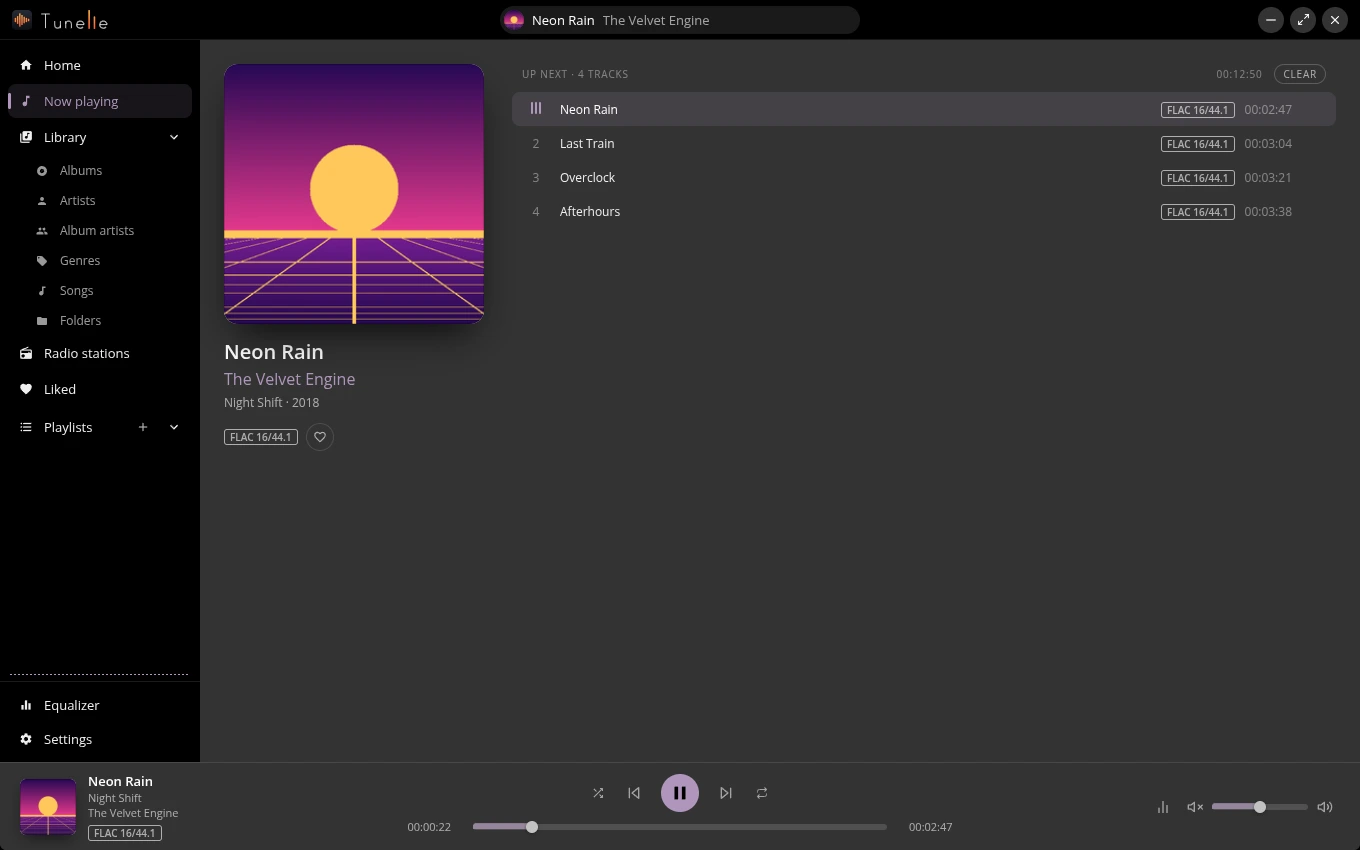
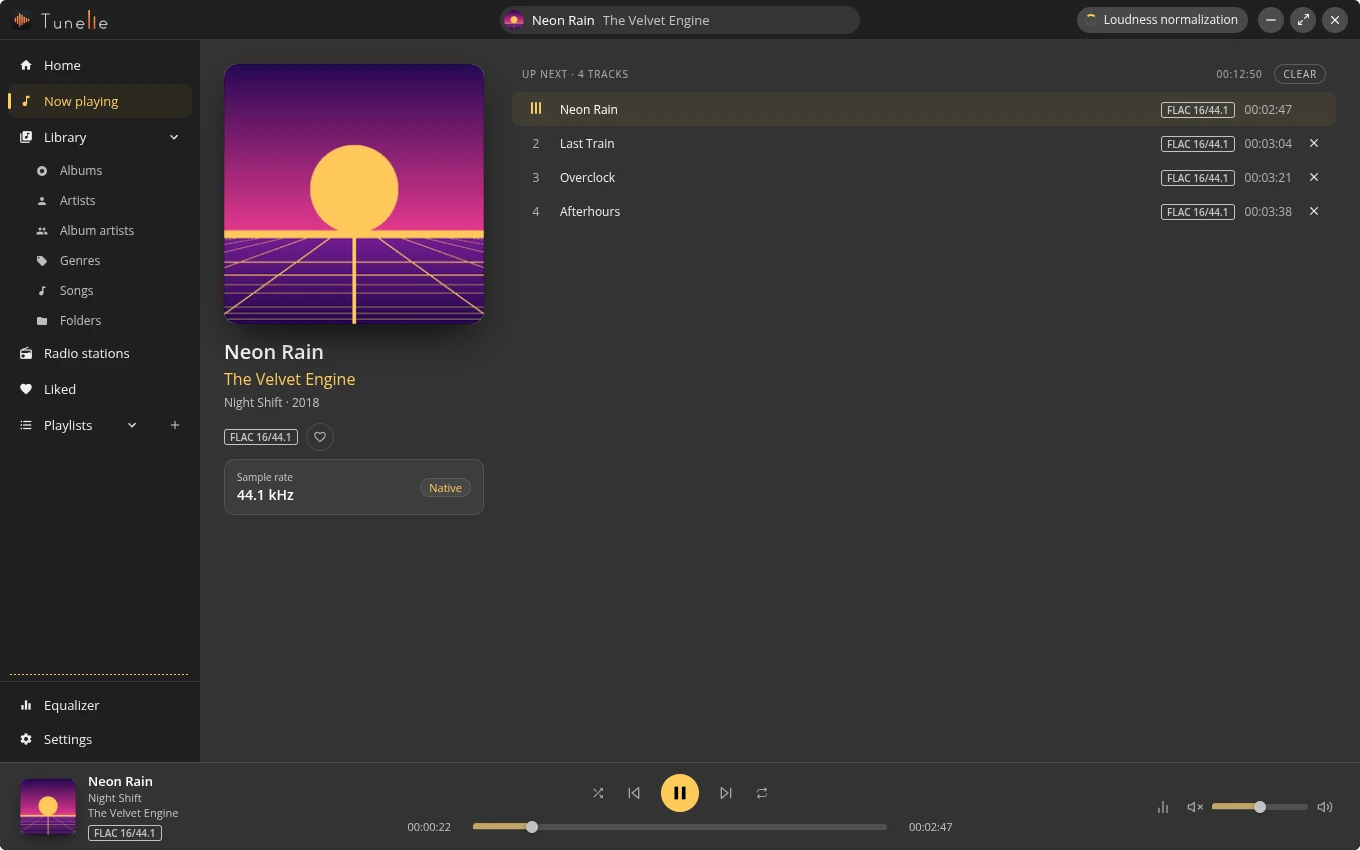
Give the window a solid background while the translucent panels are off (#397)
* Make the window opaque when the translucent panels are off

* Give the window a solid background while the translucent panels are off

* Take the screenshots in the dark theme (SCREENSHOTS_THEME=light for the light one) with the window blur off

* Check the accent text against the surface of the active navigation item so the light theme keeps 4.5:1

---------

diff --git a/e2e/screenshots/screenshot-steps.ts b/e2e/screenshots/screenshot-steps.ts
@@ -1,6 +1,7 @@
 import { test as base, expect, type Page } from '@playwright/test';
 import { mkdirSync, mkdtempSync, rmSync, writeFileSync } from 'fs';
 import { tmpdir } from 'os';
+import { z } from 'zod';
 import { join, resolve } from 'path';
 import { albums, startDirectory, writeLibrary } from '../../scripts/screenshots/screenshot-fixtures';
 import { installActiveAudio } from '../support/active-audio';
@@ -9,9 +10,12 @@ import { addFolder, launchApp, navigate, ui } from '../support/app';
 
 // what the screenshots share: the app on a library of generated files with an album playing, and the steps and the picture taken from it
 // (scenes.spec.ts for the pictures of the website, small-windows.spec.ts for the layout at small sizes)
-// SCREENSHOTS_OUT=folder writes the pictures there instead of the default folder of the file that takes them
+// SCREENSHOTS_OUT=folder writes the pictures there instead of the default folder of the file that takes them, SCREENSHOTS_THEME=light starts the app in the light theme
 
 const output = resolve(__dirname, '../..', process.env.SCREENSHOTS_OUT ?? 'site/screenshots');
+
+// the window blur is off in a clean profile, so the window has the solid background of the theme and nothing of the desktop shows
+const theme = z.enum(['dark', 'light']).catch('dark').parse(process.env.SCREENSHOTS_THEME);
 
 export interface Album {
   title: string;
@@ -30,10 +34,8 @@ export const screenshotTest = base.extend<object, { session: { page: Page; resiz
       const directory = await startDirectory();
       const { app, page } = await launchApp({ home, radioDirectory: directory.origin, initScripts: [installActiveAudio, installAudioProbe] });
       // the app stops what moves on its own for this setting (the wave of a station is drawn once, the covers change at once), so a picture does not depend on the moment it is taken
-      // and the colour scheme is the one of the system, not the light one that Playwright sets unless it is told not to
-      await page.emulateMedia({ reducedMotion: 'reduce', colorScheme: null });
-      // the window is transparent and its panels are translucent: what is behind it is black, as on a desktop of its own
-      await page.addStyleTag({ content: 'html { background: #000 !important; }' });
+      // and the app starts in the colour scheme of SCREENSHOTS_THEME (dark unless it says light), as the mode of a clean profile follows the system
+      await page.emulateMedia({ reducedMotion: 'reduce', colorScheme: theme });
       await addFolder(
         page,
         music,

diff --git a/client/theme.ts b/client/theme.ts
@@ -14,6 +14,9 @@ export const defaultTheme: ThemeSettings = { mode: 'system', accent: undefined }
 /** The panel colours of client/components/layout/theme-provider/ThemeProvider.scss, which text in the accent has to stand out from */
 export const panelSurfaces: Record<ResolvedTheme, string> = { dark: '#333333', light: '#fafafa' };
 
+/** The darkest surface the accent text sits on: the window background under the accent tint of the active navigation item (the light one is `--app-background` with 6% of the accent), which is darker than a panel */
+export const accentSurfaces: Record<ResolvedTheme, string> = { dark: '#333333', light: '#e6e6e6' };
+
 /** WCAG contrast for normal text */
 const minTextContrast = 4.5;
 
@@ -63,13 +66,13 @@ export const contrastRatio = (first: string, second: string) => {
 /** Black or white, whichever reads better on the colour (for a label on an accent background) */
 export const pickContrastColor = (background: string) => (contrastRatio(background, '#ffffff') >= contrastRatio(background, '#000000') ? '#ffffff' : '#000000');
 
-/** The accent, moved toward white on dark panels and toward black on light ones just far enough to be readable as text there */
+/** The accent, moved toward white on dark surfaces and toward black on light ones just far enough to be readable as text there */
 export const readableAccent = (accent: string, theme: ResolvedTheme) => {
   const toward = theme === 'dark' ? '#ffffff' : '#000000';
 
   return (
     Array.from({ length: 21 }, (_, step) => mix(accent, toward, step / 20)).find(
-      (candidate) => contrastRatio(candidate, panelSurfaces[theme]) >= minTextContrast
+      (candidate) => contrastRatio(candidate, accentSurfaces[theme]) >= minTextContrast
     ) ?? toward
   );
 };

diff --git a/client/theme.test.ts b/client/theme.test.ts
@@ -6,7 +6,7 @@ import {
   contrastRatio,
   defaultAccent,
   defaultTheme,
-  panelSurfaces,
+  accentSurfaces,
   parseAccent,
   pickContrastColor,
   readableAccent,
@@ -96,19 +96,19 @@ describe('readableAccent', () => {
     const readable = readableAccent(defaultAccent, 'light');
 
     expect(readable).not.toBe(defaultAccent);
-    expect(contrastRatio(readable, panelSurfaces.light)).toBeGreaterThanOrEqual(4.5);
+    expect(contrastRatio(readable, accentSurfaces.light)).toBeGreaterThanOrEqual(4.5);
   });
 
   it.each(accentPresets.flatMap((preset) => (['dark', 'light'] as const).map((theme) => [preset, theme] as const)))(
     'reads %s on %s panels',
     (preset, theme) => {
-      expect(contrastRatio(readableAccent(preset, theme), panelSurfaces[theme])).toBeGreaterThanOrEqual(4.5);
+      expect(contrastRatio(readableAccent(preset, theme), accentSurfaces[theme])).toBeGreaterThanOrEqual(4.5);
     }
   );
 
   it.each(['#000000', '#ffffff', '#808080', '#ffff00', '#0000ff', '#010101', '#fefefe'])('reads the extreme %s in both modes', (accent) => {
-    expect(contrastRatio(readableAccent(accent, 'dark'), panelSurfaces.dark)).toBeGreaterThanOrEqual(4.5);
-    expect(contrastRatio(readableAccent(accent, 'light'), panelSurfaces.light)).toBeGreaterThanOrEqual(4.5);
+    expect(contrastRatio(readableAccent(accent, 'dark'), accentSurfaces.dark)).toBeGreaterThanOrEqual(4.5);
+    expect(contrastRatio(readableAccent(accent, 'light'), accentSurfaces.light)).toBeGreaterThanOrEqual(4.5);
   });
 });
 

diff --git a/e2e/screenshots/scenes.spec.ts b/e2e/screenshots/scenes.spec.ts
@@ -6,7 +6,7 @@ import { capture, closeDialog, currentTime, holdAt, playAlbum, shown, screenshot
 // the pictures of site/screenshots (npm run screenshots [-- -g scene]), one test each, in the order of the list: a scene starts from an album playing, and from what the ones before left
 // the same pictures every time: a library of generated tagged files and a made up station directory (scripts/screenshots/screenshot-fixtures.ts), a clean profile, English (SCREENSHOTS_LANG=hu for another language of shared/locales/), reduced motion, 1360 x 850,
 // and the clock of the player held where the scene wants it; Linux draws headless, Windows and macOS need their desktop
-// SCREENSHOTS_OUT=folder writes the pictures there instead of site/screenshots, SCREENSHOTS_LANG=hu takes them in Hungarian (the texts of the steps are English, ui() finds them in the language of the run)
+// SCREENSHOTS_OUT=folder writes the pictures there instead of site/screenshots, SCREENSHOTS_THEME=light starts the app light instead of dark, SCREENSHOTS_LANG=hu takes them in Hungarian (the texts of the steps are English, ui() finds them in the language of the run)
 
 test.describe.configure({ mode: 'serial' });
 

diff --git a/client/components/layout/theme-provider/ThemeProvider.scss b/client/components/layout/theme-provider/ThemeProvider.scss
@@ -11,10 +11,9 @@
   --app-background: #1f1f1f;
   --panel-solid: #333333;
   --panel-glass: rgba(51, 51, 51, 0.4);
-  // what lies over a transparent window: the desktop shows through, so it is tinted more where nothing blurs it
+  // what lies over a transparent window where the desktop blurs it
   --window-tint: rgba(0, 0, 0, 0.3);
   --window-tint-dense: rgba(0, 0, 0, 0.8);
-  --window-tint-densest: rgba(0, 0, 0, 0.88);
   --bar-background: rgba(0, 0, 0, 0.3);
 
   --text: #ffffff;
@@ -43,7 +42,7 @@
 @mixin light {
   color-scheme: light;
 
-  --accent: #a65757;
+  --accent: #995050;
   --accent-contrast: #ffffff;
 
   --app-background: #f2f2f2;
@@ -51,7 +50,6 @@
   --panel-glass: rgba(255, 255, 255, 0.55);
   --window-tint: rgba(255, 255, 255, 0.3);
   --window-tint-dense: rgba(255, 255, 255, 0.6);
-  --window-tint-densest: rgba(255, 255, 255, 0.75);
   --bar-background: rgba(255, 255, 255, 0.5);
 
   --text: #1f1f1f;

diff --git a/client/components/layout/player-home/PlayerHome.scss b/client/components/layout/player-home/PlayerHome.scss
@@ -83,13 +83,10 @@ html, body {
     background: var(--window-tint);
   }
 
-  // nothing blurs behind the window, so use a denser tint to keep text readable
-  &.opaque.noBlur {
-    background: var(--window-tint-dense);
-  }
-
+  // nothing blurs behind the window, so it has a background of its own instead of showing the desktop (the window stays transparent, so the setting applies at once)
+  &.opaque.noBlur,
   &.maximized.opaque.noBlur {
-    background: var(--window-tint-densest);
+    background: var(--app-background);
   }
 
   &.loaded {

diff --git a/docs/development/accessibility.md b/docs/development/accessibility.md
@@ -12,7 +12,7 @@ Two automated checks show the accessibility problems of the renderer (tracking i
 
 - `e2e/accessibility/accessibility.spec.ts` opens the library, album details, now playing, radio, settings and the equalizer in light and dark mode (`colorScheme` and reduced motion emulated) and runs axe on the page. Run it with `npm run test:a11y` after `npm run build`. It is its own Playwright project (`a11y`), left out of `npm run test:e2e`, and CI runs it in the `accessibility` job of `test.yml` on Ubuntu only, beside the other jobs, so the end to end tests of every system stay as short as they are.
 - Only serious and critical violations are reported. Each is a line `<rule>: <help> (<n> elements)` in the failure of the test, which fails on any. To see the elements, run axe with the rule in a temporary spec and print `node.target` and `node.any[0].message`.
-- Symptom: axe `color-contrast`. Causes found: a `text-shadow` (axe counts the shadow colour as the background, so the navigation labels have none), `opacity` on text (use `--text-muted` or `--text-faint`), an overlay on the transparent title bar (the queue pill sits on `--panel-solid`), and the dense tint of a window that nothing blurs (the dark one is 0.8, as the desktop behind a transparent window is unknown and axe sees white). The muted and faint text and the accent tint are set in `ThemeProvider.scss` so that the accent on its tint and the faint text on a panel keep 4.5:1.
+- Symptom: axe `color-contrast`. Causes found: a `text-shadow` (axe counts the shadow colour as the background, so the navigation labels have none), `opacity` on text (use `--text-muted` or `--text-faint`), an overlay on the transparent title bar (the queue pill sits on `--panel-solid`), and a window that nothing blurs (it has the solid background of the theme, as the desktop behind a transparent window is unknown and axe sees white). The accent text is checked against `accentSurfaces` in `client/theme.ts`, not against the panel: the active navigation item sits on the window background under its accent tint, which is darker than `--panel-solid` (a light window of `#f2f2f2` with the tint measured 4.22 on the default accent against the needed 4.5, in light mode only). The muted and faint text and the accent tint are set in `ThemeProvider.scss` so that the accent on its tint and the faint text on a panel keep 4.5:1.
 - Symptom: `browserContext.newPage: Protocol error (Target.createTarget): Not supported`. Cause: axe opens a second page by default, which Electron cannot. `setLegacyMode()` in `e2e/support/accessibility.ts` runs it in the page itself.
 - The pages of the app stay mounted, so the scenes see the same page-wide violations for now.
 

diff --git a/docs/app/window-blur.md b/docs/app/window-blur.md
@@ -9,7 +9,7 @@ The parts of the window that are translucent show a blurred backdrop where the s
 | GNOME on Linux | Through the [Blur my Shell](https://extensions.gnome.org/extension/3193/blur-my-shell/) extension, see below. |
 | Other Linux desktops | Only if the desktop blurs windows itself (for example a KDE Plasma blur rule); the app cannot ask for it. |
 
-Electron cannot blur behind a window on Linux and the app cannot tell whether the desktop does, so it starts with opaque panels and a darker tint. Once the desktop blurs the window, choose **Use translucent panels** under **Window blur** on the Settings tab (**Use opaque panels** goes back). The choice is saved with the other settings.
+Electron cannot blur behind a window on Linux and the app cannot tell whether the desktop does, so it starts with opaque panels and a solid window background. Once the desktop blurs the window, choose **Use translucent panels** under **Window blur** on the Settings tab (**Use opaque panels** goes back). The choice is saved with the other settings. The window itself stays transparent, so the choice applies at once without a restart: with the opaque panels the page paints the background of the theme over the whole window, with the translucent ones only a light tint (`PlayerHome.scss`).
 
 ## GNOME with Blur my Shell
 

diff --git a/docs/development/screenshots.md b/docs/development/screenshots.md
@@ -6,7 +6,7 @@ They are taken with the Playwright setup of `e2e/` (the `screenshots` project, `
 
 - generated tagged FLAC files with drawn covers, no real artists, covers or stations;
 - a fake station directory through `TUNELLE_RADIO_DIRECTORY` whose stream names its cover in `StreamUrl`, otherwise the app looks one up online and may show someone else's art;
-- a clean profile (`HOME` and `XDG_CONFIG_HOME`), English, reduced motion, the colour scheme of the system, 1360×850, the pointer parked off the page, saved as WebP.
+- a clean profile (`HOME` and `XDG_CONFIG_HOME`), English, reduced motion, the dark theme (`SCREENSHOTS_THEME=light` starts light), the window blur off so the window has the solid background of the theme, 1360×850, the pointer parked off the page, saved as WebP.
 
 ## A new picture
 
